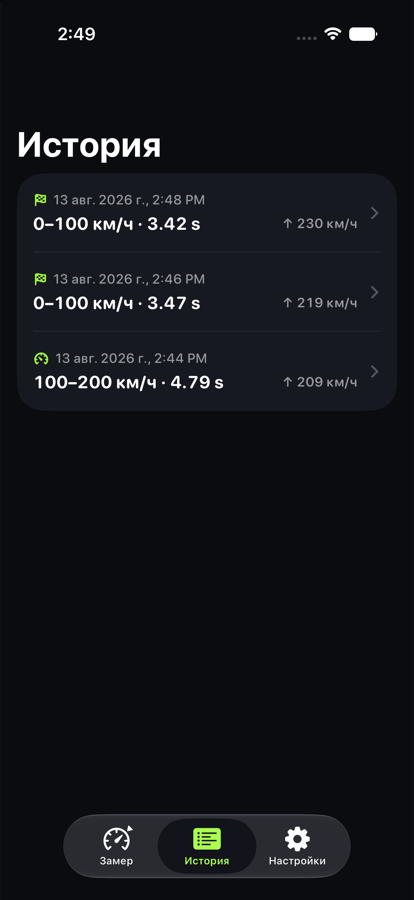
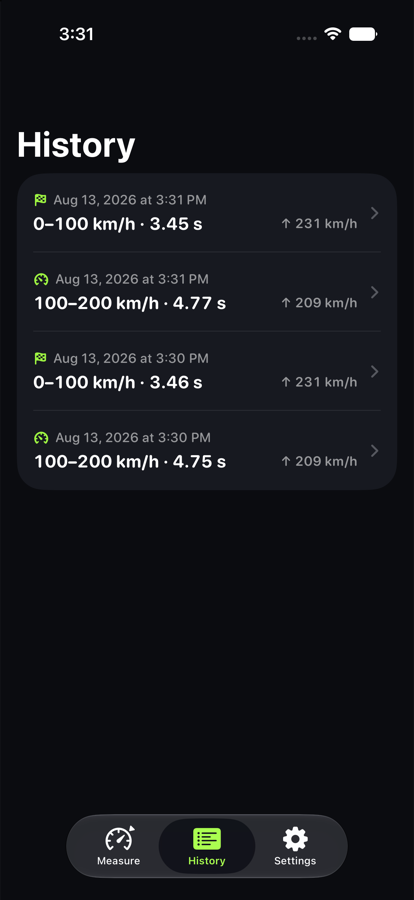
README: English copy and English screenshots
The project description is English-first now: README rewritten,
screenshots retaken in the English locale, and the GitHub About
text and release notes switched to English.

Badge header trimmed to the platform and toolchain row; the
framework list stays in the Stack table where it belongs.

diff --git a/README.md b/README.md
@@ -4,7 +4,7 @@
 
 # Dragly
 
-**GPS-перфометр для авто на iOS — точный замер разгона без внешнего оборудования**
+**GPS performance meter for cars — accurate acceleration timing on a single iPhone**
 
 [![iOS](https://img.shields.io/badge/iOS-26%2B-000000?style=for-the-badge&logo=apple&logoColor=white)](https://www.apple.com/ios/)
 [![iPadOS](https://img.shields.io/badge/iPadOS-26%2B-000000?style=for-the-badge&logo=apple&logoColor=white)](https://www.apple.com/ipados/)
@@ -12,90 +12,75 @@
 [![SwiftUI](https://img.shields.io/badge/SwiftUI-0B84FF?style=for-the-badge&logo=swift&logoColor=white)](https://developer.apple.com/xcode/swiftui/)
 [![Xcode](https://img.shields.io/badge/Xcode-26-1575F9?style=for-the-badge&logo=xcode&logoColor=white)](https://developer.apple.com/xcode/)
 
-[![SwiftData](https://img.shields.io/badge/SwiftData-персистентность-9EF542?style=flat-square)](https://developer.apple.com/documentation/swiftdata)
-[![Swift Charts](https://img.shields.io/badge/Swift_Charts-графики-9EF542?style=flat-square)](https://developer.apple.com/documentation/charts)
-[![Core Location](https://img.shields.io/badge/Core_Location-GPS-9EF542?style=flat-square)](https://developer.apple.com/documentation/corelocation)
-[![Core Motion](https://img.shields.io/badge/Core_Motion-IMU_+_барометр-9EF542?style=flat-square)](https://developer.apple.com/documentation/coremotion)
-[![Observation](https://img.shields.io/badge/Observation-@Observable-9EF542?style=flat-square)](https://developer.apple.com/documentation/observation)
-[![Localization](https://img.shields.io/badge/языки-RU_·_EN-9EF542?style=flat-square)](Dragly/Localizable.xcstrings)
-
-[![Release](https://img.shields.io/github/v/release/ipadev88/Dragly?style=flat-square&color=9EF542)](https://github.com/ipadev88/Dragly/releases/latest)
-[![Downloads](https://img.shields.io/github/downloads/ipadev88/Dragly/total?style=flat-square&color=9EF542)](https://github.com/ipadev88/Dragly/releases)
-[![Zero dependencies](https://img.shields.io/badge/зависимости-нет-9EF542?style=flat-square)](#-стек)
-
-</div>
-
-<div align="center">
-
-<img src="Design/screenshots/01-measure.png" width="200" alt="Замер">&nbsp;
-<img src="Design/screenshots/02-result.png" width="200" alt="Результат">&nbsp;
-<img src="Design/screenshots/03-scrub.png" width="200" alt="Скраббер графика">&nbsp;
-<img src="Design/screenshots/04-history.png" width="200" alt="История">
+<img src="Design/screenshots/01-measure.png" width="200" alt="Measure">&nbsp;
+<img src="Design/screenshots/02-result.png" width="200" alt="Result">&nbsp;
+<img src="Design/screenshots/03-scrub.png" width="200" alt="Chart scrubbing">&nbsp;
+<img src="Design/screenshots/04-history.png" width="200" alt="History">
 
 </div>
 
 ---
 
-## Что это
+## What it is
 
-Аналог Draggy, работающий на одном iPhone. Кладёшь телефон в машину, жмёшь **СТАРТ** — дальше ничего трогать не нужно: приложение само ловит момент разгона и замеряет всё сразу.
+A Draggy-style performance meter that runs on one iPhone — no external GNSS receiver. Put the phone in the car, hit **START**, and forget about it: the app detects the launch on its own and times everything at once.
 
-**Едешь 90 → топишь в пол** — отсчёт начинается сам при пересечении 100 км/ч, и дальше фиксируются 100–150, 100–200, 150–200, 200–210, 200–250 и так до конца ускорения. Заезд не обрывается на «круглом» числе: пока машина ускоряется, замер продолжается.
+**Cruising at 55 mph and you floor it?** The clock starts by itself as you cross 60, and from there it keeps timing 60–90, 60–125, 90–125, 125–130, 125–155 and so on. A run doesn't stop at a round number — as long as the car keeps pulling, the measurement continues.
 
-## Возможности
+## Features
 
 | | |
 |---|---|
-| **Старт с места** | 0–60, 0–100, 0–150, 0–200, 0–250 км/ч (и mph-эквиваленты) |
-| **Старт с хода** | Любая пара отметок: 100–200, 150–200, 200–210 … 200–250 |
-| **Дистанции** | 60 ft, 100 м, 1/8 мили, 1/4 мили, 1/2 мили, 1 км — с trap speed |
-| **Драг-стрип** | Опция 1-foot rollout, trap speed по последним 66 футам |
-| **Классика** | 60–130 mph одной строкой |
-| **Свои интервалы** | Любой диапазон, например 130–170 — замеряется в каждом заезде |
-| **График** | Кривая скорости; зажми — увидишь время, скорость, дистанцию и g в точке |
-| **Условия заезда** | Температура, высота, плотностная высота (DA), уклон трассы |
-| **История** | Все заезды сохраняются локально, с графиком и полной таблицей |
-| **Единицы** | км/ч и mph, метры и футы, °C и °F |
+| **Standing start** | 0–60, 0–100, 0–150, 0–200, 0–250 km/h (and mph equivalents) |
+| **Rolling start** | Any pair of marks: 100–200, 150–200, 200–210 … 200–250 |
+| **Distances** | 60 ft, 100 m, 1/8 mile, 1/4 mile, 1/2 mile, 1 km — with trap speed |
+| **Drag strip** | Optional 1-foot rollout, trap speed over the last 66 ft |
+| **Classic** | 60–130 mph in one line |
+| **Custom intervals** | Any range, e.g. 130–170 — timed on every run |
+| **Chart** | Speed curve; press and drag to read time, speed, distance and g at any point |
+| **Run conditions** | Temperature, altitude, density altitude, track slope |
+| **History** | Every run stored on device with its chart and full table |
+| **Units** | km/h and mph, meters and feet, °C and °F |
 
-## Как работает точность
+## How the accuracy works
 
-GPS в iPhone обновляется примерно раз в секунду — этого мало для сотых долей секунды. Поэтому Dragly не полагается на GPS в одиночку.
+GPS on an iPhone updates roughly once per second — nowhere near enough for hundredths of a second. So Dragly doesn't rely on GPS alone.
 
 ```
-GPS (1 Гц, допплер) ─┐
-                     ├─► фильтр Калмана ─► скорость на 100 Гц ─► интерполяция ─► время
-IMU (100 Гц, accel) ─┘        [v, bias]
+GPS (1 Hz, Doppler) ─┐
+                     ├─► Kalman filter ─► 100 Hz speed ─► interpolation ─► time
+IMU (100 Hz, accel) ─┘      [v, bias]
 ```
 
-* **Фьюжн-фильтр Калмана.** Состояние — скорость и смещение акселерометра. Предсказание идёт на каждом тике IMU (10 мс), коррекция — на каждом фиксе GPS по допплеровской скорости с её реальной дисперсией.
-* **Компенсация задержки GPS.** Фикс приходит с меткой времени в прошлом, поэтому невязка считается против оценки на момент фикса, а не «сейчас». Без этого была систематическая ошибка ≈0.16 с.
-* **Ориентация не важна.** Телефон можно положить как угодно: направление движения вычисляется само и защищено от переворота при торможении.
-* **Точное время пересечения.** Момент пересечения каждой отметки берётся линейной интерполяцией между тиками фильтра — разрешение 0.01 с.
-* **Старт с места** ловится по фронту ускорения (IMU реагирует на порядок раньше GPS), с реплеем окна подтверждения, чтобы не потерять первые 0.2 с.
-* **Уклон и DA.** Уклон трассы — с барометра (≈0.1 м по вертикали против метров у GPS), плотностная высота — из давления и температуры.
-* **Работает и без IMU.** Если акселерометр недоступен, движок переходит в GPS-only режим — точность падает, но замер идёт.
+* **Kalman sensor fusion.** The state is speed plus accelerometer bias. Prediction runs on every IMU tick (10 ms); correction runs on every GPS fix using Doppler speed weighted by its reported variance.
+* **Fix latency compensation.** A fix arrives stamped in the past, so the innovation is computed against the estimate *at fix time*, not "now". Without this there was a systematic error of ≈0.16 s.
+* **Orientation doesn't matter.** The phone can lie in any position: the direction of travel is learned automatically and protected against flipping under braking.
+* **Exact crossing times.** Each mark crossing is linearly interpolated between filter ticks — 0.01 s resolution.
+* **Standing launches** are caught on the acceleration edge (the IMU reacts an order of magnitude sooner than GPS), replaying the confirmation window so the first 0.2 s aren't lost.
+* **Slope and DA.** Track slope comes from the barometer (≈0.1 m vertically versus meters from GPS); density altitude is derived from pressure and temperature.
+* **Works without the IMU too.** If the accelerometer is unavailable the engine falls back to GPS-only — accuracy drops, but the run is still timed.
 
-### Проверенная точность
+### Verified accuracy
 
-Движок прогоняется на синтетической физике (шумный GPS с задержкой доставки + смещённый акселерометр) против аналитического эталона:
+The engine is run against synthetic physics (noisy GPS with delivery latency + biased accelerometer) and compared to an analytical reference:
 
-| Сценарий | Ошибка |
+| Scenario | Error |
 |---|---|
-| Старт с места, 0–100 км/ч | ±0.04 с |
-| Старт с хода, 100–200 км/ч | ±0.02 с |
-| 1/4 мили (ET) | ±0.01 с |
-| GPS-only, без акселерометра | ±0.13 с |
-| Худший случай по 12 прогонам с разным шумом | ±0.16 с |
+| Standing start, 0–100 km/h | ±0.04 s |
+| Rolling start, 100–200 km/h | ±0.02 s |
+| 1/4 mile (ET) | ±0.01 s |
+| GPS-only, no accelerometer | ±0.13 s |
+| Worst case across 12 runs with different noise | ±0.16 s |
 
-> Реальная точность зависит от качества приёма GPS. Телефон должен быть неподвижен относительно машины — в держателе, на сиденье или в кармане; в руках IMU шумит, и точность сползает к GPS-only уровню.
+> Real-world accuracy depends on GPS reception. The phone must be stationary relative to the car — in a mount, on a seat or in a pocket; held in your hand the IMU gets noisy and accuracy degrades toward the GPS-only level.
 
-## Установка
+## Install
 
-### Готовый IPA
+### Prebuilt IPA
 
-Скачай `Dragly.ipa` из [релизов](https://github.com/ipadev88/Dragly/releases/latest). Сборка **без подписи** — подпиши своим Apple ID через [Sideloadly](https://sideloadly.io), [AltStore](https://altstore.io) или Xcode.
+Download `Dragly.ipa` from the [latest release](https://github.com/ipadev88/Dragly/releases/latest). The build is **unsigned** — sign it with your own Apple ID using [Sideloadly](https://sideloadly.io), [AltStore](https://altstore.io) or Xcode.
 
-### Из исходников
+### From source
 
 ```bash
 git clone https://github.com/ipadev88/Dragly.git
@@ -103,51 +88,55 @@ cd Dragly
 open Dragly.xcodeproj
 ```
 
-Собери схему **Dragly** на своём устройстве (⌘R). Нужен Xcode 26+ и iOS 26+ на телефоне.
+Build the **Dragly** scheme on your device (⌘R). Requires Xcode 26+ and iOS 26+.
 
-## Стек
+## Stack
 
-Только системные фреймворки Apple — **никаких сторонних зависимостей**, ни SPM, ни CocoaPods.
+Apple system frameworks only — **no third-party dependencies**, no SPM, no CocoaPods.
 
-| Фреймворк | Зачем |
+| Framework | Used for |
 |---|---|
-| `SwiftUI` | Весь интерфейс |
-| `Observation` | `@Observable`-модели вместо ObservableObject |
-| `SwiftData` | История заездов |
-| `Charts` | График скорости со скраббером |
-| `CoreLocation` | Допплеровская скорость и координаты |
-| `CoreMotion` | `CMDeviceMotion` 100 Гц + `CMAltimeter` |
-| `Foundation` | Ядро алгоритма — без зависимостей от UI и сенсоров |
+| `SwiftUI` | The entire interface |
+| `Observation` | `@Observable` models instead of ObservableObject |
+| `SwiftData` | Run history |
+| `Charts` | Speed chart with scrubbing |
+| `CoreLocation` | Doppler speed and coordinates |
+| `CoreMotion` | `CMDeviceMotion` at 100 Hz + `CMAltimeter` |
+| `Foundation` | The algorithm core — no UI or sensor dependencies |
 
-## Структура
+## Structure
 
 ```
 Dragly/
-├── Engine/                     ядро, чистый Foundation — тестируется вне устройства
-│   ├── KalmanSpeedEstimator    фьюжн GPS + IMU, компенсация задержки фикса
-│   ├── RunEngine               конечный автомат заезда, детект отметок
-│   └── RunTypes                модели результата, раскладка интервалов
-├── Services/                   обёртки сенсоров
+├── Engine/                     core, pure Foundation — testable off-device
+│   ├── KalmanSpeedEstimator    GPS + IMU fusion, fix latency compensation
+│   ├── RunEngine               run state machine, mark detection
+│   └── RunTypes                result models, interval resolution
+├── Services/                   sensor wrappers
 │   ├── LocationService         CLLocationManager → SpeedFix
 │   ├── MotionService           CMDeviceMotion → AccelTick
-│   ├── BarometerService        CMAltimeter → давление и уклон
-│   └── SimulatedDriveService   синтетический заезд (только DEBUG)
-├── Models/RunRecord            SwiftData-модель заезда
-├── App/AppModel                связка сервисы → движок → база
-└── Views/                      экраны: замер, результат, история, настройки
+│   ├── BarometerService        CMAltimeter → pressure and slope
+│   └── SimulatedDriveService   synthetic run (DEBUG only)
+├── Models/RunRecord            SwiftData model of a run
+├── App/AppModel                wiring: services → engine → store
+└── Views/                      screens: measure, result, history, settings
 ```
 
-Ядро (`Engine/`) не импортирует ни CoreLocation, ни CoreMotion, ни SwiftUI — только `Foundation`. Поэтому алгоритм компилируется и проверяется обычным `swiftc` на маке, без симулятора и без машины.
+The core (`Engine/`) imports neither CoreLocation nor CoreMotion nor SwiftUI — only `Foundation`. That's why the algorithm compiles and can be verified with plain `swiftc` on a Mac, without a simulator and without a car.
 
-## Разрешения
+## Permissions
 
-| Разрешение | Зачем |
+| Permission | Why |
 |---|---|
-| Геопозиция (при использовании) | Допплеровская скорость — основа замера |
-| Движение и фитнес | Акселерометр и барометр для точности между фиксами GPS |
+| Location (when in use) | Doppler speed is the basis of every measurement |
+| Motion & fitness | Accelerometer and barometer for accuracy between GPS fixes |
 
-Данные никуда не отправляются и остаются на устройстве. Единственный сетевой запрос — температура воздуха по координатам заезда через [Open-Meteo](https://open-meteo.com) (без ключей и аккаунтов); без сети приложение работает полностью, просто не показывает температуру.
+Nothing is uploaded; your data stays on the device. The only network request is air temperature for the run's coordinates via [Open-Meteo](https://open-meteo.com) (no keys, no account). Offline the app works fully — it just won't show temperature.
 
-## Лицензия
+## Languages
+
+The interface ships in **English** and **Russian**, following the system language.
+
+## License
 
 [MIT](LICENSE)
